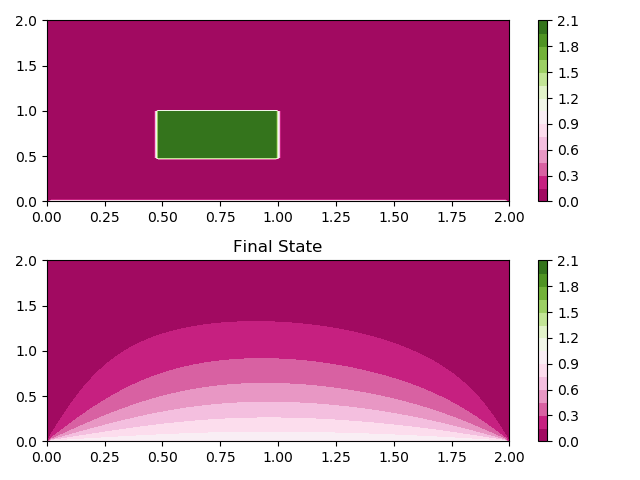
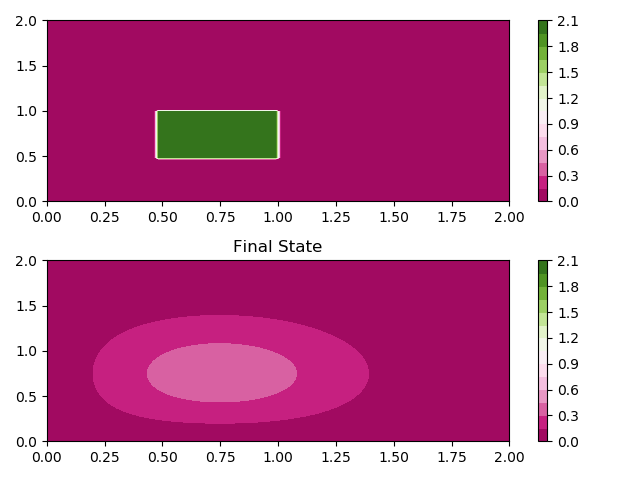
new run of 2d grid

Changed region(s): [[0.0625, 0.6562, 0.8125, 0.9375], [0.0938, 0.4062, 0.7812, 0.4375]]

diff --git a/main.py b/main.py
@@ -22,7 +22,7 @@ ops_dict = {'laplacian': laplace_op}
 BCs = []
 # BCs.append(static_bcs.Dirichlet(0,'l',np.array([1])))
 # BCs.append(static_bcs.Dirichlet(0,'r',np.array([0])))
-BCs.append(static_bcs.Dirichlet(0,'l',np.ones(grid_u.shape[0])))
+BCs.append(static_bcs.Dirichlet(0,'l',np.zeros(grid_u.shape[0])))
 BCs.append(static_bcs.Dirichlet(0,'r',np.zeros(grid_u.shape[0])))
 BCs.append(static_bcs.Dirichlet(1,'l',np.zeros(grid_u.shape[0])))
 BCs.append(static_bcs.Dirichlet(1,'r',np.zeros(grid_u.shape[0])))

diff --git a/initializer.py b/initializer.py
@@ -9,7 +9,7 @@ out_loc = r"outputs/"
 out_name = "initializer_2d_plot_1"
 
 t_start = 0.0 # start time
-t_end = 5.0 # end time
+t_end = 2.0 # end time
 dt = 0.0001 # time step size
 
 #sloppily define the solution grid and stuff
